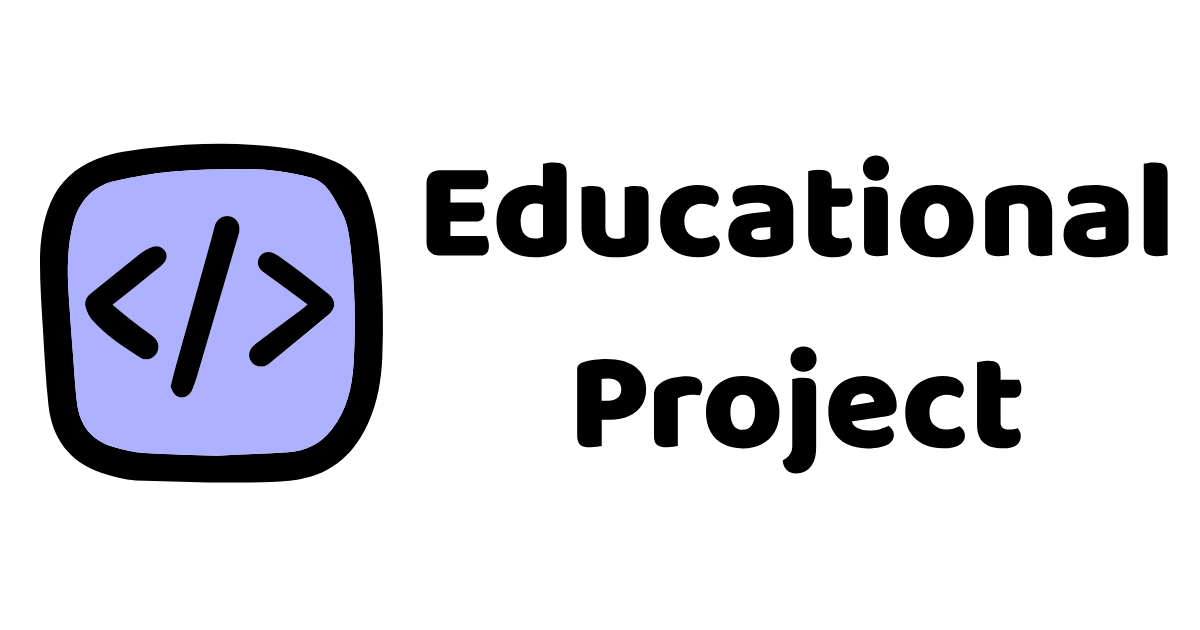
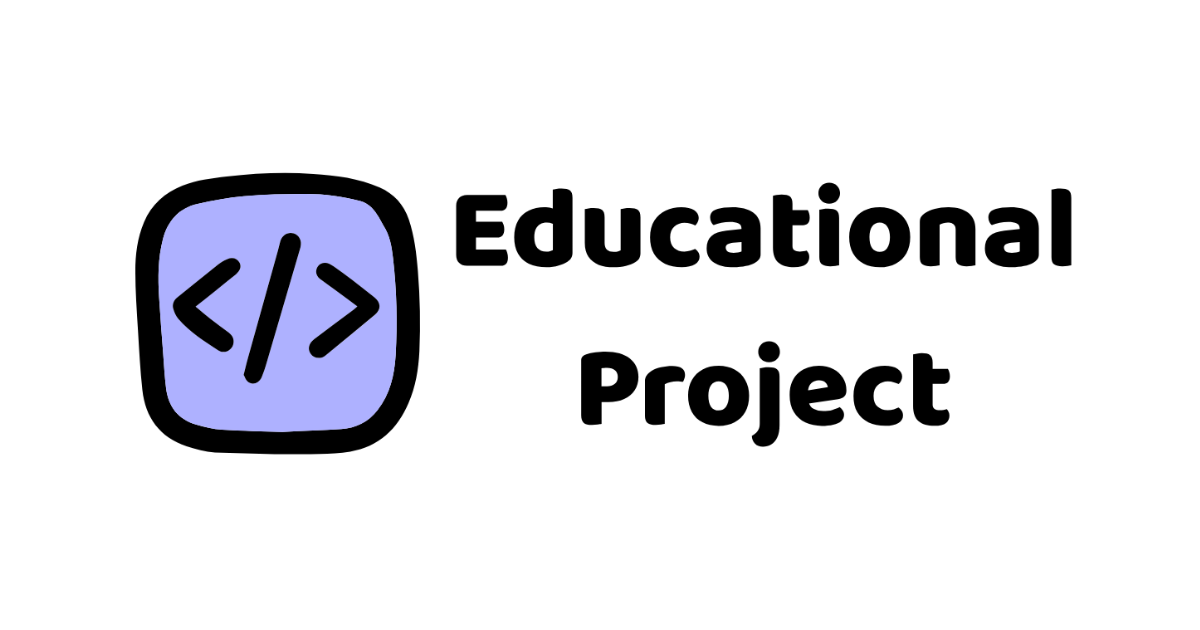
Featured and ReadMe update

Changed region(s): [[0.0308, 0.2111, 0.9867, 0.7841], [0.4625, 0.5429, 0.8633, 0.754]]

diff --git a/README.md b/README.md
@@ -1,1 +1,3 @@
+#Streaming Platform
+
 This is an educational project, designed for learning purposes.